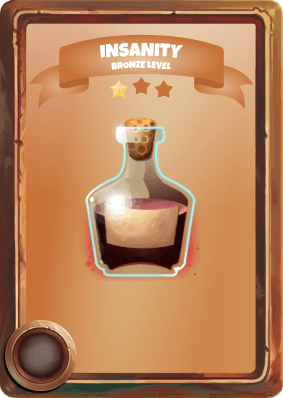
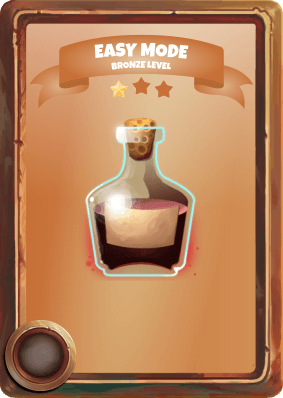
Implemented Potion Effect - 50/50

Changed region(s): [[0.311, 0.0905, 0.6784, 0.1508], [0.3958, 0.2111, 0.4523, 0.2412], [0.9611, 0.995, 0.9894, 1.0]]

diff --git a/src/pages/quizView/QuizView.js b/src/pages/quizView/QuizView.js
@@ -3,7 +3,7 @@ import "./quizView.css"
 import Navbar from "../../components/navbar/Navbar"
 import { useSelector, useDispatch } from "react-redux"
 import { add_coins, add_coins_amount } from "../../redux/CoinsReducer.js"
-import { activate_power } from "../../redux/PowerReducer"
+import { activate_power, power_special } from "../../redux/PowerReducer"
 import Protection from "../../components/powers/Protection.js"
 import DoublePoints from "../../components/powers/DoublePoints.js"
 import {religionQuestions} from "./questions.js"
@@ -15,6 +15,7 @@ import TripplePoints from '../../components/powers/TripplePoints'
 import GoldenPoints from '../../components/powers/GoldenPoints'
 import PointPoision from '../../components/powers/PointPoison'
 import Blocker from '../../components/powers/Blocker'
+import FiftyFiftyChance from '../../components/powers/FiftyFiftyChance'
 
 
 
@@ -46,9 +47,39 @@ function QuizView() {
     setAnswerAlt(shuffleAnswer)
     setReveal(!reveal)
 
+    // If dark mode, then restore
+    document.getElementById('answerAlt_A').classList.remove('fiftyFifty_darkAnserAlt')
+    document.getElementById('answerAlt_B').classList.remove('fiftyFifty_darkAnserAlt')
+    document.getElementById('answerAlt_C').classList.remove('fiftyFifty_darkAnserAlt')
+    document.getElementById('answerAlt_D').classList.remove('fiftyFifty_darkAnserAlt')
+
+    //Potion power - Fifty Fifty
+    if (powersList[5].fiftyfifty === "active") {
+      
+      // Create and array and fill it with all wrong alternatives
+      let fiftyFityArray = []
+      if (shuffleAnswer[0] === religionQuestions.questions[randomQuestionNr].correctAnswer) {} else {fiftyFityArray.push(0)} 
+      if (shuffleAnswer[1] === religionQuestions.questions[randomQuestionNr].correctAnswer) {} else {fiftyFityArray.push(1)} 
+      if (shuffleAnswer[2] === religionQuestions.questions[randomQuestionNr].correctAnswer) {} else {fiftyFityArray.push(2)} 
+      if (shuffleAnswer[3] === religionQuestions.questions[randomQuestionNr].correctAnswer) {} else {fiftyFityArray.push(3)} 
+
+      // Shuffle array of wrong alternatives and remove last one, leaving only two randomly wrong alternativs
+      fiftyFityArray.sort(() => Math.random() - 0.5); fiftyFityArray.pop()
+
+      // Turn two wrong alternatives dark
+      for (let i = 0; i < fiftyFityArray.length; i++) {
+        if (fiftyFityArray[i] === 0) {document.getElementById('answerAlt_A').classList.add('fiftyFifty_darkAnserAlt')} 
+        if (fiftyFityArray[i] === 1) {document.getElementById('answerAlt_B').classList.add('fiftyFifty_darkAnserAlt')} 
+        if (fiftyFityArray[i] === 2) {document.getElementById('answerAlt_C').classList.add('fiftyFifty_darkAnserAlt')} 
+        if (fiftyFityArray[i] === 3) {document.getElementById('answerAlt_D').classList.add('fiftyFifty_darkAnserAlt')} 
+      }
+
+    } // End of fiftyfifty
+    
     // Remove navbar-blocker
     document.getElementById("navbar_blocker").style.display = "none"
-  }
+
+  } // End of newQuestion()
 
 
 
@@ -84,6 +115,7 @@ function QuizView() {
     document.getElementById("answerBtn").classList.add('disabledbutton');
     document.getElementById("answerBtn").classList.remove('studentQuiz_answerView_correctAnswerBox2');
     document.getElementById("answerBtn").classList.add('studentQuiz_answerView_correctAnswerBox1');
+    dispatch(power_special())
 
     setTimeout(function() {
       document.getElementById("answerBtn").innerHTML = "Continue"
@@ -92,10 +124,9 @@ function QuizView() {
       document.getElementById("answerBtn").classList.add('studentQuiz_answerView_correctAnswerBox2');
       document.getElementById("answerBtn").classList.remove('disabledbutton');
     }, speed);
-  }
+  
+  } // End of answerQuestion
 
-
- 
 
 
   // Potion Effect - SPEED UP
@@ -116,6 +147,7 @@ function QuizView() {
 
       <div className="studentQuiz_powerContainer">
         {powersList[3].protection === "active" && <Protection />}
+        {powersList[5].fiftyfifty === "active" && <FiftyFiftyChance />}
         {powersList[1].doublePoints === "active" && <DoublePoints />}
         {powersList[9].tripplePoints === "active" && <TripplePoints />}
         {powersList[19].goldenPoints === "active" && <GoldenPoints />}
@@ -135,6 +167,7 @@ function QuizView() {
       <button onClick={() => dispatch(activate_power({power_name: "PROTECTION"}))}>PROTECTION</button>
       <button onClick={() => dispatch(activate_power({power_name: "POINT POISON"}))}>POINT POISON</button>
       <button onClick={() => dispatch(activate_power({power_name: "BLOCKER"}))}>BLOCKER</button>
+      <button onClick={() => dispatch(activate_power({power_name: "FIFTY FIFTY"}))}>FIFTY FIFTY</button>
 
       
       <div id="navbar_blocker" className="studentQuiz_navbar_blocker"></div>
@@ -144,10 +177,10 @@ function QuizView() {
       </div>
       <div className='studentQuiz_answerView'>
         <div className='studentQuiz_answerView_correctAnswerBox1' id="answerBtn" onClick={() => newQuestion()}><p>Oh... You were hoping for me not thinking of this :P</p></div> 
-        <motion.div animate={{y: reveal ? 500 : 0}} transition={{duration:0.5}} className='studentQuiz_anwserBox' id="answerAlt_A" onClick={() => answerQuestion(0)}><p>{answerAlt[0]}</p></motion.div>
-        <motion.div animate={{y: reveal ? 500 : 0}} transition={{duration:0.5}} className='studentQuiz_anwserBox' id="answerAlt_B" onClick={() => answerQuestion(1)}><p>{answerAlt[1]}</p></motion.div>
-        <motion.div animate={{y: reveal ? 500 : 0}} transition={{duration:0.5}} className='studentQuiz_anwserBox' id="answerAlt_C" onClick={() => answerQuestion(2)}><p>{answerAlt[2]}</p></motion.div>
-        <motion.div animate={{y: reveal ? 500 : 0}} transition={{duration:0.5}} className='studentQuiz_anwserBox' id="answerAlt_D" onClick={() => answerQuestion(3)}><p>{answerAlt[3]}</p></motion.div>
+        <motion.div animate={{y: reveal ? 500 : 0}} transition={{duration:0.5}} className='studentQuiz_anwserBox anwserBox_A' id="answerAlt_A" onClick={() => answerQuestion(0)}><p>{answerAlt[0]}</p></motion.div>
+        <motion.div animate={{y: reveal ? 500 : 0}} transition={{duration:0.5}} className='studentQuiz_anwserBox anwserBox_B' id="answerAlt_B" onClick={() => answerQuestion(1)}><p>{answerAlt[1]}</p></motion.div>
+        <motion.div animate={{y: reveal ? 500 : 0}} transition={{duration:0.5}} className='studentQuiz_anwserBox anwserBox_C' id="answerAlt_C" onClick={() => answerQuestion(2)}><p>{answerAlt[2]}</p></motion.div>
+        <motion.div animate={{y: reveal ? 500 : 0}} transition={{duration:0.5}} className='studentQuiz_anwserBox anwserBox_D' id="answerAlt_D" onClick={() => answerQuestion(3)}><p>{answerAlt[3]}</p></motion.div>
       </div>
     </div>
   )

diff --git a/src/redux/PowerReducer.js b/src/redux/PowerReducer.js
@@ -8,7 +8,7 @@ var PowerData = [
     {id: 3, power_name: "PROTECTION", protection: "inactive", duration_level_1: 60, duration_level_2: 180, duration_level_3: 300, counter3: 0 },
     /// APPRENTICE
     {id: 4, power_name: "FREEZE", freeze: "inactive", duration_level_1: 10, duration_level_2: 15, duration_level_3: 20 },
-    {id: 5, power_name: "INSANITY", insanity: "inactive", duration_level_1: 10, duration_level_2: 15, duration_level_3: 20 },
+    {id: 5, power_name: "FIFTY FIFTY", fiftyfifty: "inactive", duration_level_1: 5, duration_level_2: 10, duration_level_3: 30, counter5: 0 },
     {id: 6, power_name: "POINT POISON", poison: "inactive", duration_level_1: 30, duration_level_2: 60, duration_level_3: 120, counter6: 0 },
     {id: 7, power_name: "GIVE GIFT", gift_amount_1: 5, gift_amount_2: 10, gift_amount_3: 20 },
     /// EXPERT
@@ -46,6 +46,7 @@ export const powerSlice = createSlice({
                 if (action.payload.power_name === "SPEED UP" ) {power.speedUp = "active"}
                 if (action.payload.power_name === "POINT POISON" ) {power.poison = "active"}
                 if (action.payload.power_name === "BLOCKER" ) {power.blocker = "active"}
+                if (action.payload.power_name === "FIFTY FIFTY" ) {power.fiftyfifty = "active"}
 
                 if (action.payload.power_name === "LEADERBOARD CARDS" ) {power.leaderboard_card = "active"}
                 if (action.payload.power_name === "LEADERBOARD STATS" ) {power.leaderboard_stats = "active"}
@@ -62,6 +63,7 @@ export const powerSlice = createSlice({
                 if (action.payload.power_name === "SPEED UP" ) {power.speedUp = "inactive"; power.counter2 = 0}
                 if (action.payload.power_name === "POINT POISON" ) {power.poison = "inactive"; power.counter6 = 0}
                 if (action.payload.power_name === "BLOCKER" ) {power.blocker = "inactive"; power.counter14 = 0}
+                if (action.payload.power_name === "FIFTY FIFTY" ) {power.fiftyfifty = "inactive"; power.counter5 = 0}
 
                 if (action.payload.power_name === "LEADERBOARD CARDS" ) {power.leaderboard_card = "inactive"; power.counter20_card = 0}
                 if (action.payload.power_name === "LEADERBOARD STATS" ) {power.leaderboard_stats = "inactive"; power.counter21_stats = 0}
@@ -83,9 +85,15 @@ export const powerSlice = createSlice({
                 
             })
         },
+        power_special: (state) => {
+            state.value.map((power) => {
+                if (power.fiftyfifty === "active") {power.counter5 += 1}
+
+            })
+        },
          
     }
 })
 
-export const { activate_power, dectivate_power, power_counter } = powerSlice.actions
+export const { activate_power, dectivate_power, power_counter, power_special } = powerSlice.actions
 export default powerSlice.reducer

diff --git a/src/pages/quizView/quizView.css b/src/pages/quizView/quizView.css
@@ -71,35 +71,58 @@
     margin: 0;
     width: 80%;
     font-size: 30px;
-    color: white;
     font-weight: bold;
     text-align: center;
 }
 
-#answerAlt_A {
-    background-color: #66a221;;
-    -webkit-box-shadow:inset 0px 0px 0px 6px #589100ff;
-    -moz-box-shadow:inset 0px 0px 0px 6px #589100ff;
-    box-shadow:inset 0px 0px 0px 6px #589100ff;
+.anwserBox_A {
+  background-color: #66a221;;
+  -webkit-box-shadow:inset 0px 0px 0px 6px #589100ff;
+  -moz-box-shadow:inset 0px 0px 0px 6px #589100ff;
+  box-shadow:inset 0px 0px 0px 6px #589100ff;
+  color: white;
 }
-#answerAlt_B {
-    background-color: #d94a42; 
-    -webkit-box-shadow:inset 0px 0px 0px 6px #c63300;
-    -moz-box-shadow:inset 0px 0px 0px 6px #c63300;
-    box-shadow:inset 0px 0px 0px 6px #c63300;
+.anwserBox_B {
+  background-color: #d94a42; 
+  -webkit-box-shadow:inset 0px 0px 0px 6px #c63300;
+  -moz-box-shadow:inset 0px 0px 0px 6px #c63300;
+  box-shadow:inset 0px 0px 0px 6px #c63300;
+  color: white;
 }
-#answerAlt_C {
-    background-color: #2e9e99; 
-    -webkit-box-shadow:inset 0px 0px 0px 6px #2e7e99;
-    -moz-box-shadow:inset 0px 0px 0px 6px #2e7e99;
-    box-shadow:inset 0px 0px 0px 6px #2e7e99;
-    }
-#answerAlt_D {
-    background-color: #e8c242; 
+  .anwserBox_C {
+  background-color: #2e9e99; 
+  -webkit-box-shadow:inset 0px 0px 0px 6px #2e7e99;
+  -moz-box-shadow:inset 0px 0px 0px 6px #2e7e99;
+  box-shadow:inset 0px 0px 0px 6px #2e7e99;
+  color: white;
+}
+.anwserBox_D {
+  background-color: #e8c242; 
     -webkit-box-shadow:inset 0px 0px 0px 6px #dab100;
     -moz-box-shadow:inset 0px 0px 0px 6px #dab100;
     box-shadow:inset 0px 0px 0px 6px #dab100;
-    }
+    color: white;
+}
+
+#answerAlt_A {opacity: 1}
+#answerAlt_B {opacity: 1}
+#answerAlt_C {opacity: 1}
+#answerAlt_D {opacity: 1}
+
+
+    /* POWER FIFTY FIFTY */
+
+.fiftyFifty_darkAnserAlt {
+    background-color: #2c2f2d; 
+    -webkit-box-shadow:inset 0px 0px 0px 6px #000000;
+    -moz-box-shadow:inset 0px 0px 0px 6px #000000;
+    box-shadow:inset 0px 0px 0px 6px #000000;
+    text-decoration: line-through black; 
+    color: #999999;
+  }
+
+
+    /* POWER ICER */
 
     .icer {
         position: absolute;

diff --git a/src/components/powers/FiftyFiftyChance.js b/src/components/powers/FiftyFiftyChance.js
@@ -1,0 +1,48 @@
+import React, { useEffect, useRef, useState } from 'react'
+import { useSelector, useDispatch } from "react-redux"
+import { dectivate_power } from "../../redux/PowerReducer"
+import flasks from "../../image_assets/FlaskImageExport"
+
+let duration = 0
+
+function FiftyFiftyChance() {
+
+    const dispatch = useDispatch()
+    const powersList = useSelector((state) => state.powers.value)
+    const potionsList = useSelector((state) => state.potions.value)
+
+    function startFiftyFifty() {
+
+        if (potionsList[5].level === 1) {duration = powersList[5].duration_level_1}
+        if (potionsList[5].level === 2) {duration = powersList[5].duration_level_2}
+        if (potionsList[5].level === 3) {duration = powersList[5].duration_level_3}     
+    }
+    
+    // CHANGE TO USES INSTEAD OF TIME
+    useEffect(() => {
+        document.getElementById("fill_fiftyfifty").style.width = `${100/duration*powersList[5].counter5}%`
+        if (powersList[5].counter5 > duration) {
+            dispatch(dectivate_power({power_name: "FIFTY FIFTY"}))
+        }
+    },[powersList[5].counter5])
+       
+
+    useEffect(() => {
+        if (powersList[5].fiftyfifty === "active") {startFiftyFifty()} 
+    })
+    
+      /// NEED TO BE REUSABLE
+
+    return (
+        <div className="power_effect_container">
+            <div id="fill_fiftyfifty" className="power_fill"></div>
+            <div className="power_fill_content">
+                <img src={flasks[5]} alt="" className="power_flask" />
+                FIFTY FIFTY
+            </div>
+            
+        </div>
+    )
+}
+
+export default FiftyFiftyChance

diff --git a/src/components/powers/Blocker.js b/src/components/powers/Blocker.js
@@ -40,9 +40,6 @@ function Blocker() {
             dispatch(dectivate_power({power_name: "BLOCKER"}))
             document.getElementById("power_blocker").style.display = "none"
         }
-        if (powersList[14].counter14 < 3) {
-        
-        }
     },[powersList[14].counter14])
        
 

diff --git a/src/components/powers/powers.css b/src/components/powers/powers.css
@@ -45,7 +45,10 @@
   background: rgb(148,248,116);
   background: linear-gradient(180deg, rgba(148,248,116,1) 0%, rgba(7,85,32,1) 79%);
 }
-
+#fill_fiftyfifty {
+  background: rgb(179,134,99);
+  background: linear-gradient(180deg, rgba(179,134,99,1) 0%, rgba(43,11,10,1) 79%);
+}
 
 
 .power_icer {
